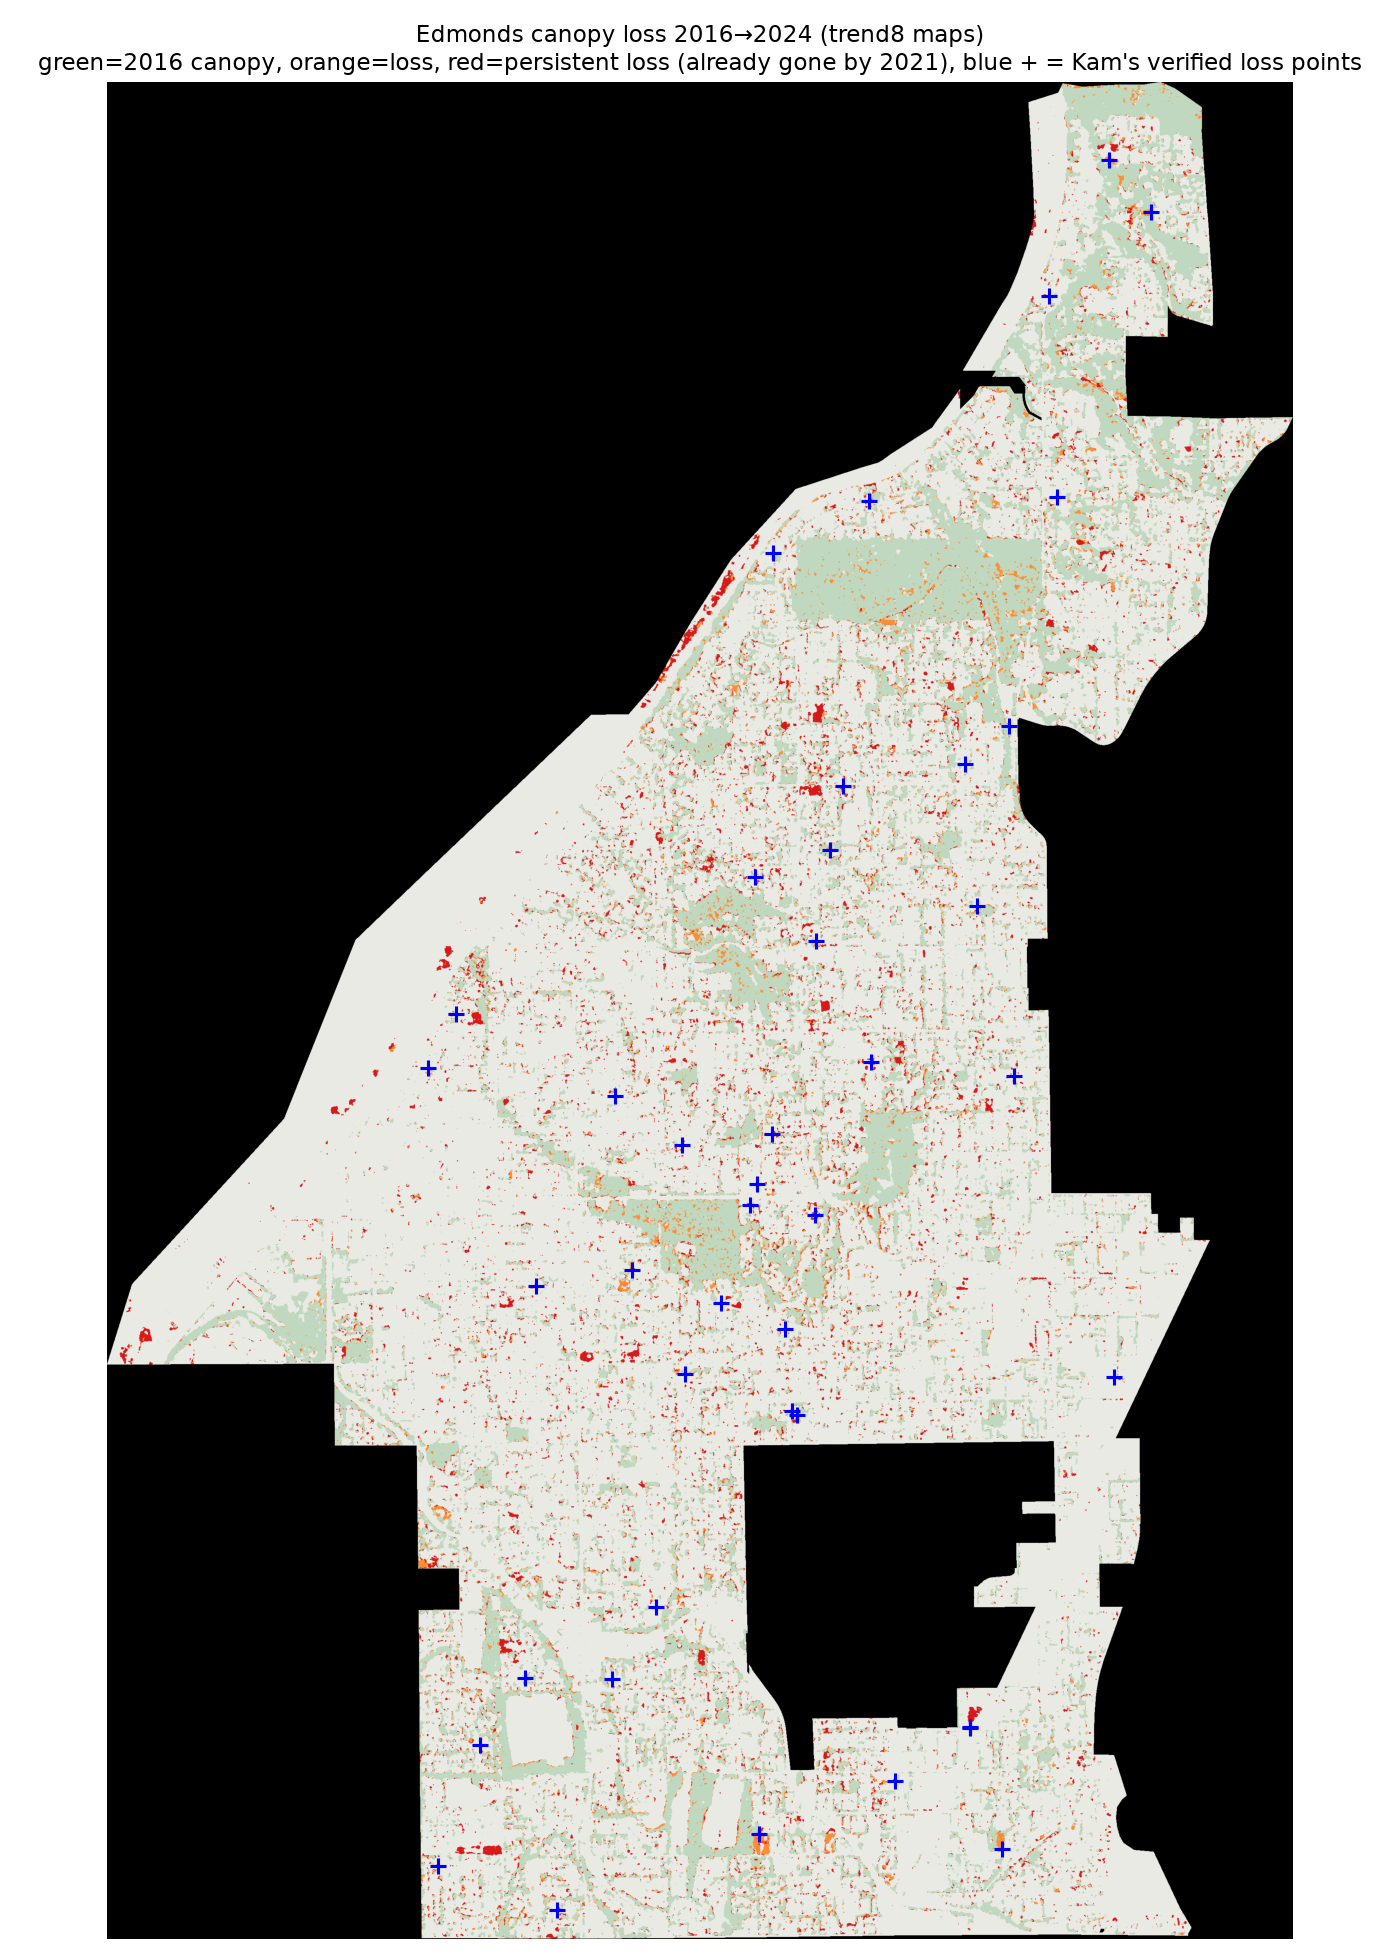
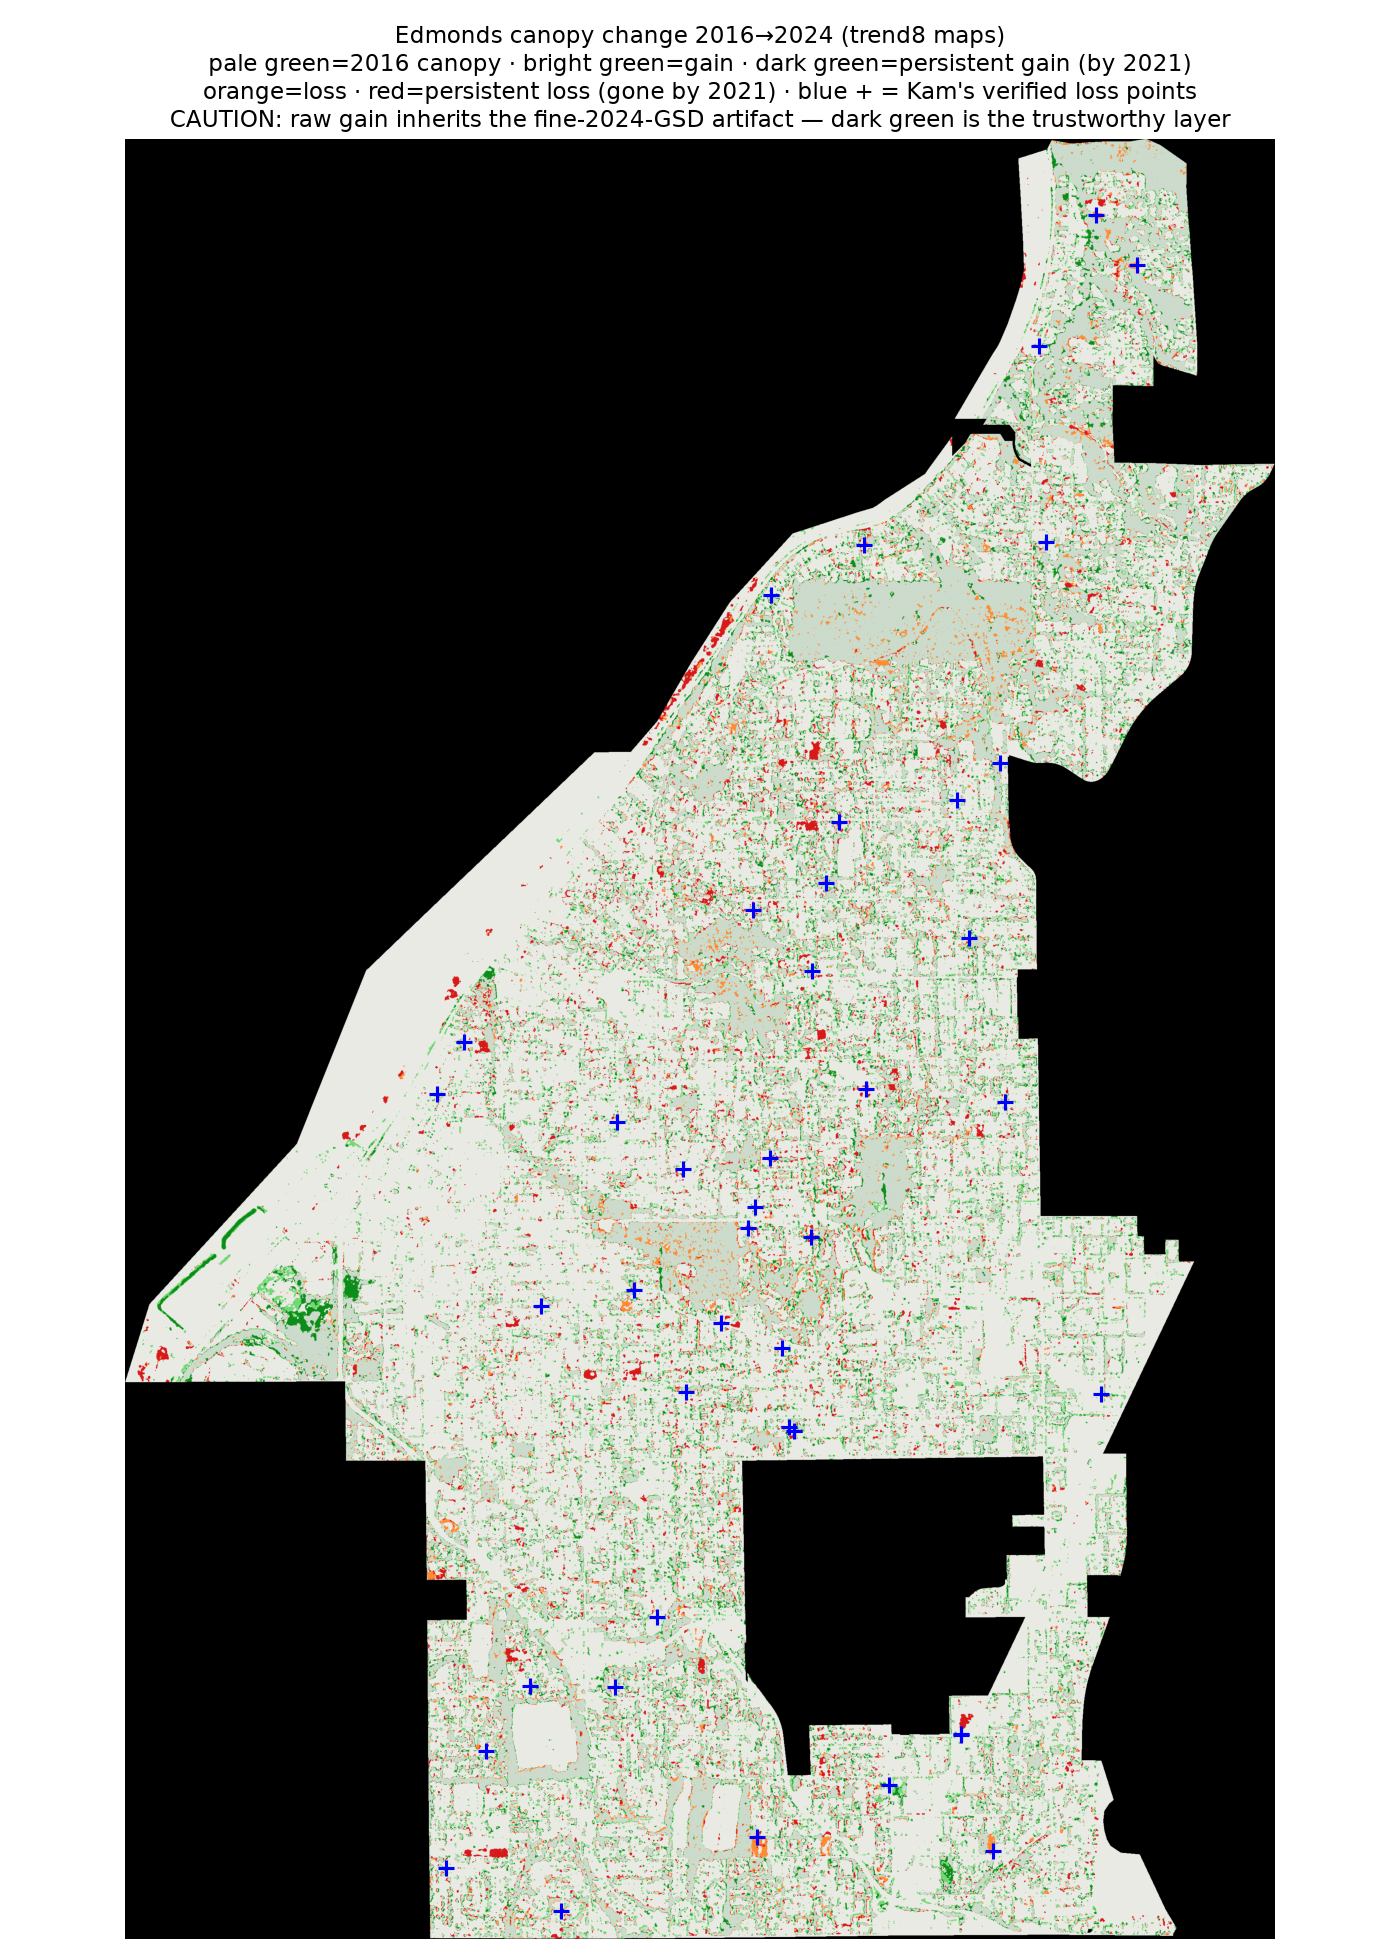
hot-spot map: gain layers (bright/persistent green) + GSD caution in title
Raw gain 217.5 ha vs loss 115.1 (1.89 ratio = the fine-2024 artifact in
numbers); persistent pair 84.4 vs 68.5 ha is the honest comparison.

Claude-Session: https://claude.ai/code/session_012AfnLF8u67gkZKSb8N7Cjw

Changed region(s): [[0.0614, 0.0, 0.9521, 0.9959]]

diff --git a/Scripts/qc/instruments/trend8_hotspots.py b/Scripts/qc/instruments/trend8_hotspots.py
@@ -54,10 +54,14 @@ def main():
     ok = inside & v16 & v21 & v24
     loss = ok & c16 & ~c24
     persist = loss & ~c21
+    gain = ok & ~c16 & c24
+    pgain = gain & c21          # already present by 2021 AND held to 2024
     lab, n = ndimage.label(persist, structure=np.ones((3, 3)))
     print(f"loss cells {loss.sum():,} ({loss.sum()*4/1e4:.1f} ha); "
           f"persistent {persist.sum():,} ({persist.sum()*4/1e4:.1f} ha); "
           f"{n} raw clusters")
+    print(f"gain cells {gain.sum():,} ({gain.sum()*4/1e4:.1f} ha); "
+          f"persistent gain {pgain.sum():,} ({pgain.sum()*4/1e4:.1f} ha)")
     sizes = ndimage.sum_labels(np.ones_like(lab), lab, range(1, n + 1))
     keep = [i + 1 for i, s in enumerate(sizes) if s * 4 / 1e4 >= MIN_HA]
     cents = ndimage.center_of_mass(persist, lab, keep)
@@ -112,7 +116,9 @@ def main():
     fig, ax = plt.subplots(figsize=(10, 14))
     base = np.zeros((h, w, 3))
     base[inside] = (0.92, 0.92, 0.90)
-    base[ok & c16] = (0.75, 0.85, 0.75)
+    base[ok & c16] = (0.80, 0.86, 0.80)
+    base[gain] = (0.45, 0.85, 0.45)
+    base[pgain] = (0.05, 0.55, 0.10)
     base[loss] = (1.0, 0.55, 0.2)
     base[persist] = (0.85, 0.1, 0.1)
     ax.imshow(base)
@@ -120,9 +126,10 @@ def main():
         col = (float(r["x"]) - tf.c) / CELL
         row = (tf.f - float(r["y"])) / CELL
         ax.plot(col, row, "b+", ms=8, mew=1.6)
-    ax.set_title("Edmonds canopy loss 2016→2024 (trend8 maps)\n"
-                 "green=2016 canopy, orange=loss, red=persistent loss (already gone by 2021), "
-                 "blue + = Kam's verified loss points")
+    ax.set_title("Edmonds canopy change 2016→2024 (trend8 maps)\n"
+                 "pale green=2016 canopy · bright green=gain · dark green=persistent gain (by 2021)\n"
+                 "orange=loss · red=persistent loss (gone by 2021) · blue + = Kam's verified loss points\n"
+                 "CAUTION: raw gain inherits the fine-2024-GSD artifact — dark green is the trustworthy layer")
     ax.axis("off")
     fig.tight_layout()
     fig.savefig(OUTD / "trend8_hotspot_map.png", dpi=140)
